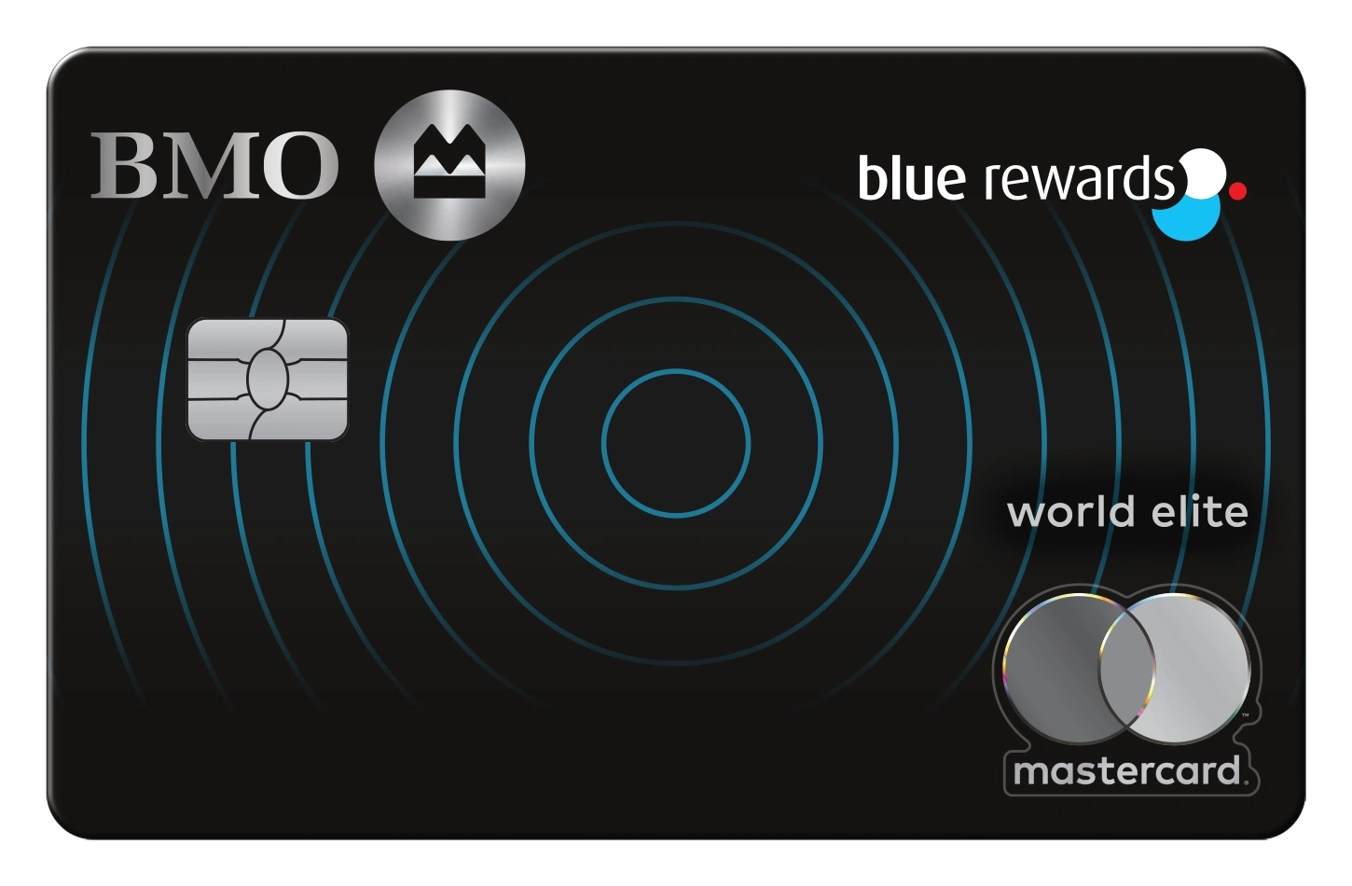
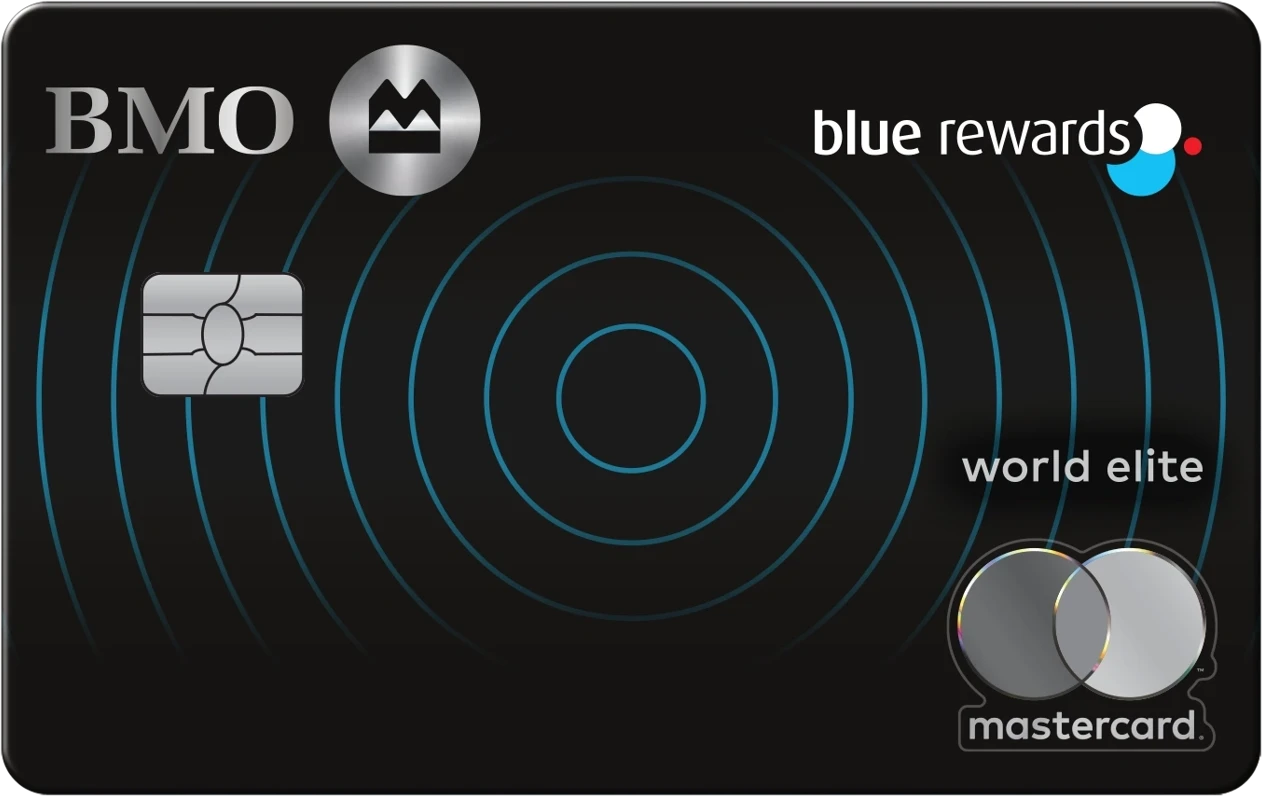
Fix BMO Blue card art and reorder the hero deck front slot
The BMO Blue Rewards World Elite image shipped with a white border baked
into the asset, making it 1352x886 (ratio 1.526) where the deck frame is
272x172 (1.581) and the other nine cards sit between 1.579 and 1.593. With
object-fit: cover it rendered inset and cropped instead of filling the
frame. Trimmed the border to 1262x796 (1.585), which also cuts the file
from 97KB to 48KB. cards.ts points at the same file, so the corrected art
also flows through top picks, search, the modal, compare and card detail.

Swept the other nine deck images; none has a border to trim.

Also moved Tangerine Rewards World Elite from index 0 to index 1 at the
owner's request, so the deck opens on Scotia Passport Privilege. active
starts at 0, so index 0 is the opening card.

Claude-Session: https://claude.ai/code/session_01673Z1znfEYqANku3pirxvs

diff --git a/src/components/HeroCardCarousel.tsx b/src/components/HeroCardCarousel.tsx
@@ -8,9 +8,12 @@ import { useCallback, useEffect, useRef, useState } from "react";
 /**
  * Hero showcase deck.
  *
- * Ordered by FinlyWealth payout, except the front slot: the owner swapped
- * BMO VIPorter out (its only art is portrait, 378x600, and rendered badly
- * in the landscape frame) for Tangerine Rewards World Elite. Commercially
+ * Ordered by FinlyWealth payout, with two owner overrides. BMO VIPorter was
+ * dropped (its only art is portrait, 378x600, and rendered badly in the
+ * landscape frame) and Tangerine Rewards World Elite took its place; the
+ * owner then asked that Tangerine not be the card shown first, so Scotia
+ * Passport Privilege holds the front slot and Tangerine sits second. `active`
+ * starts at 0, so index 0 is whatever the deck opens on. Commercially
  * featured selection rather than an editorial pick. The eyebrow says
  * "Featured" rather than "shortlist" for that reason, and the per-card
  * "Best for …" labels were removed — they were never rendered, and keeping
@@ -21,16 +24,16 @@ import { useCallback, useEffect, useRef, useState } from "react";
  */
 const FEATURED_CARDS = [
   {
-    id: "tangerine-rewards-world-elite",
-    name: "Tangerine Rewards World Elite Mastercard",
-    issuer: "Tangerine",
-    image: "/cards/tangerine-rewards-world-elite.webp",
-  },
-  {
     id: "scotia-passport-privilege",
     name: "Scotia Passport Visa Infinite Privilege",
     issuer: "Scotiabank",
     image: "/cards/scotia-passport-privilege.avif",
+  },
+  {
+    id: "tangerine-rewards-world-elite",
+    name: "Tangerine Rewards World Elite Mastercard",
+    issuer: "Tangerine",
+    image: "/cards/tangerine-rewards-world-elite.webp",
   },
   {
     id: "scotia-platinum",
